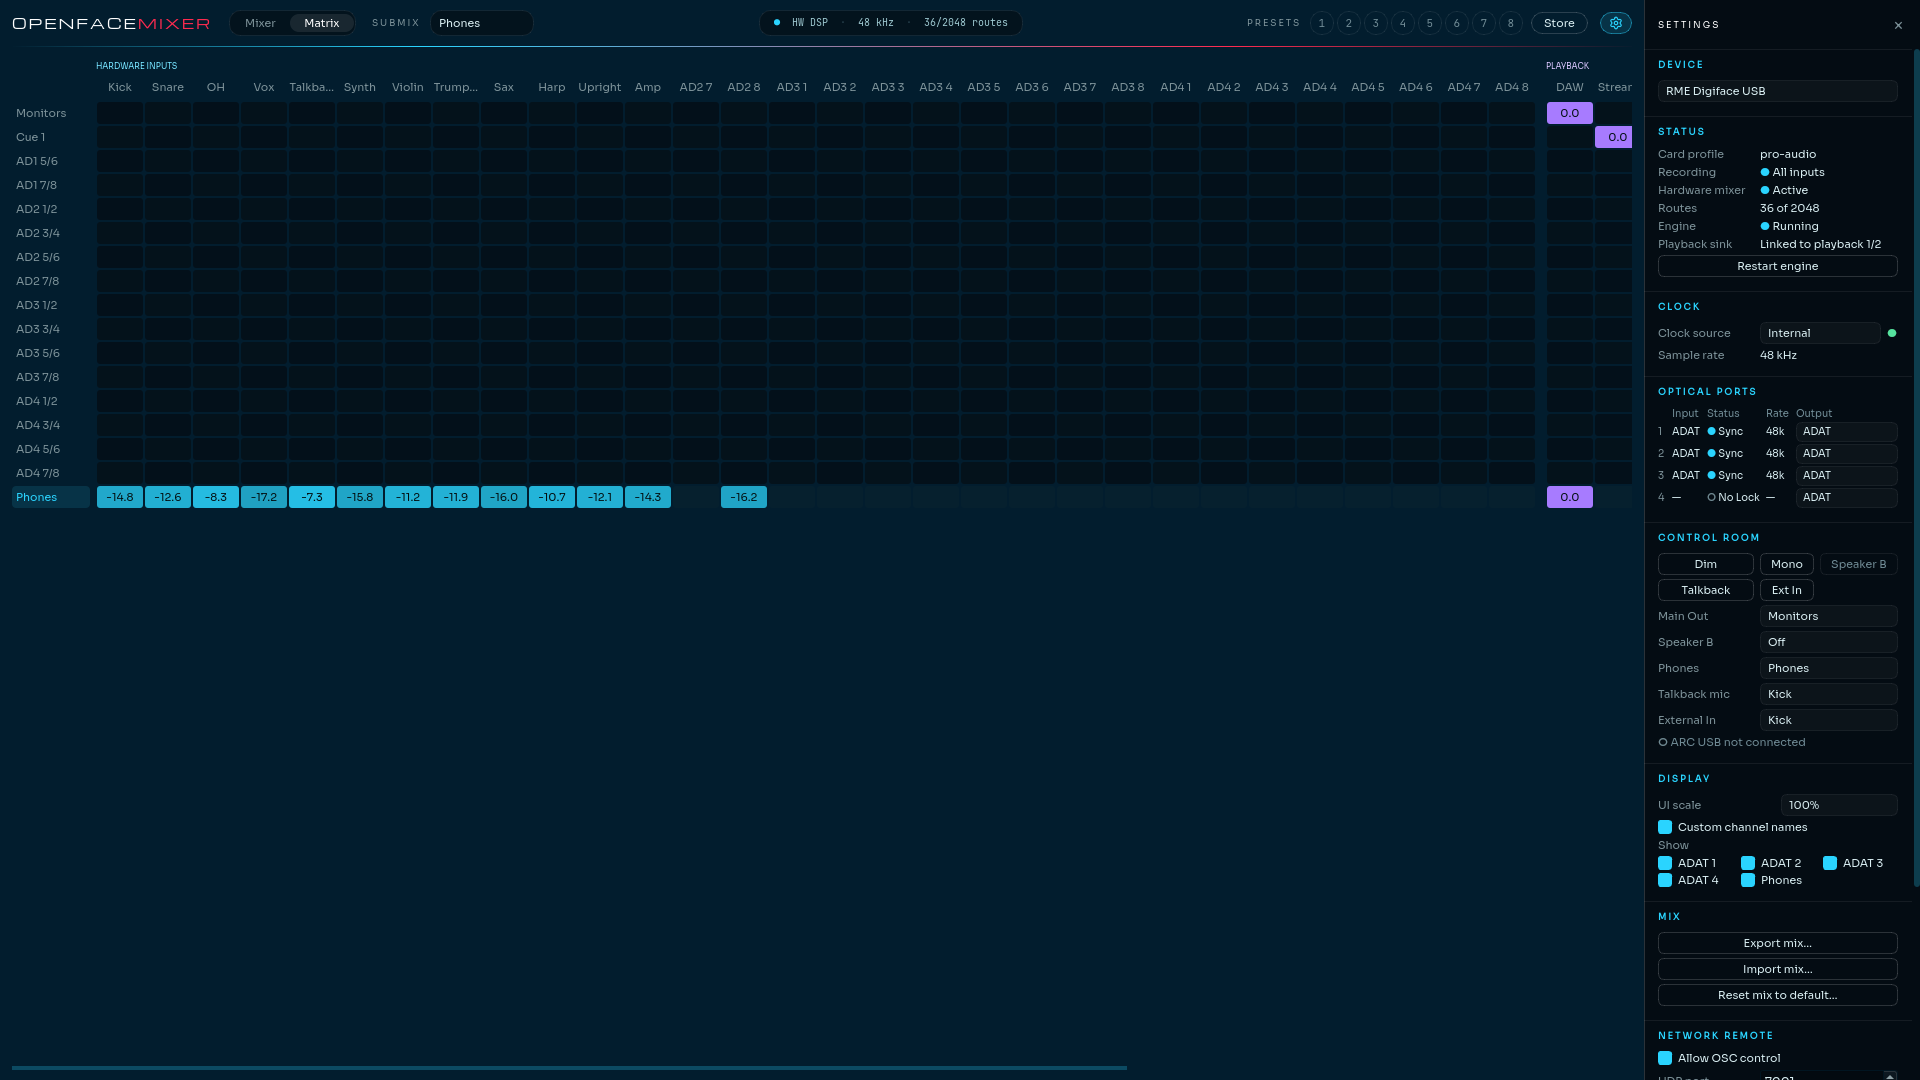
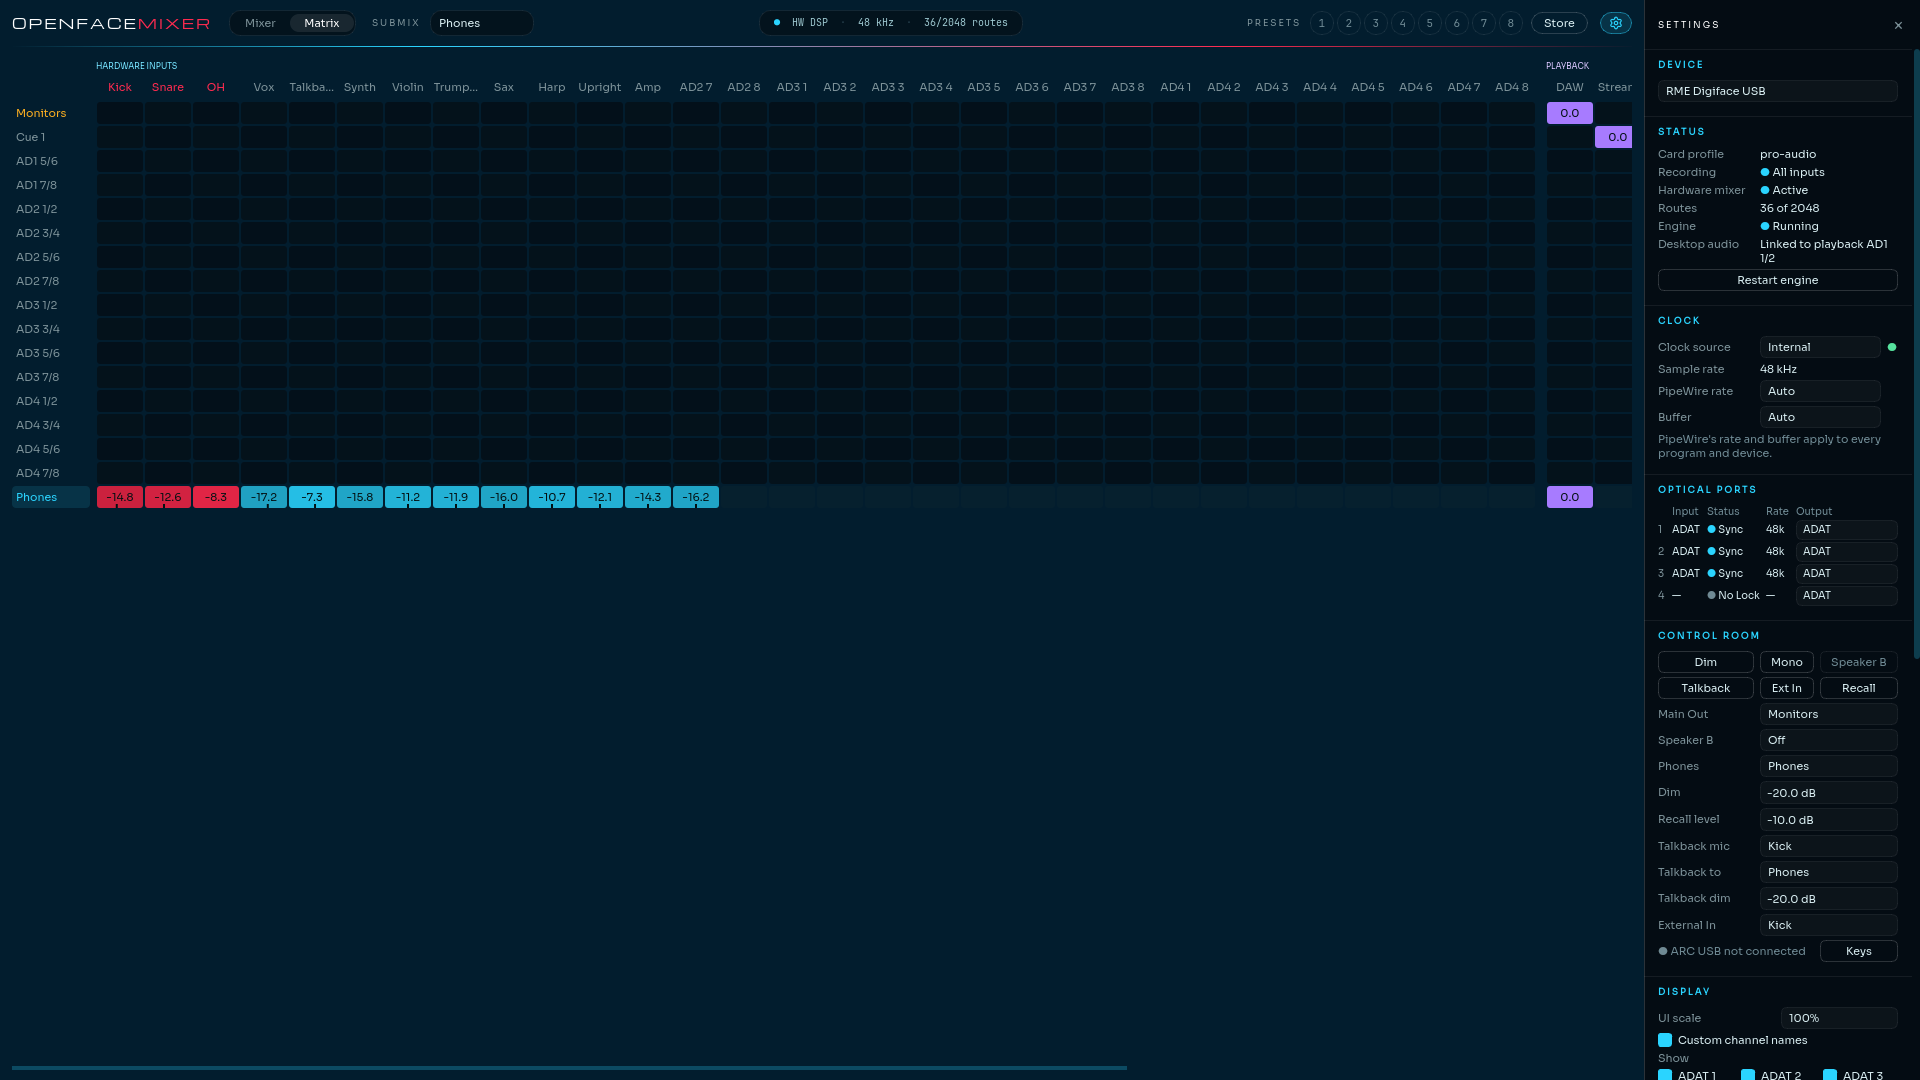
Release 0.4.0: version, changelog and README screenshots (#46)
Set __version__ to 0.4.0, name the changelog section 0.4.0 (2026-11-18) with a new empty Unreleased above it, and re-render the three README screenshots from main.

Claude-Session: https://claude.ai/code/session_01S7U4WQRqgPUqXi7QMFjHbu

diff --git a/openface_mixer/__init__.py b/openface_mixer/__init__.py
@@ -1,6 +1,6 @@
 """Openface Mixer - a TotalMix-style mixer for RME audio interfaces on Linux: the Digiface USB,
 the Fireface 802, UCX II, 800 and 400, and the HDSPe RayDAT, AIO, AIO Pro and AES."""
 
-__version__ = "0.3.0"
+__version__ = "0.4.0"
 APP_NAME = "Openface Mixer"
 APP_ID = "openface-mixer"

diff --git a/README.md b/README.md
@@ -88,7 +88,7 @@ on the HDSPe cards, with the familiar TotalMix workflow.
   bands, in a window of its own) and inputs AN 1–4 **Autoset**. Right-click a strip → *Copy effects* / *Paste effects*
   to reuse settings.
 
-  ![EQ, Dynamics, Reverb and Echo panels beside a UCX II input strip](docs/screenshots/effects.png)
+  ![EQ and Dynamics open in the inputs row beside a UCX II input strip, Reverb and Echo at the end of the outputs row](docs/screenshots/effects.png)
 - **Input options (Fireface 800):** the ⚙ on inputs AN 1 and AN 7–10: front or rear jack on
   AN 1, 7 and 8, 48V on AN 7–10, and Drive, Limiter and Speaker Emulation on the AN 1
   instrument input.

diff --git a/CHANGELOG.md b/CHANGELOG.md
@@ -3,7 +3,9 @@
 What changed in each version of Openface Mixer, for the people who use it. Releases are
 installed from **Updates** in the settings (see the [README](README.md#updates)).
 
-## Unreleased (0.4.0)
+## Unreleased
+
+## 0.4.0 (2026-11-18)
 
 ### New
 
